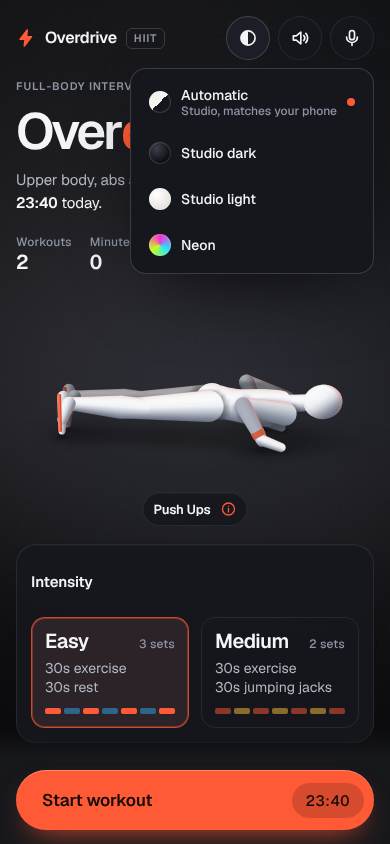
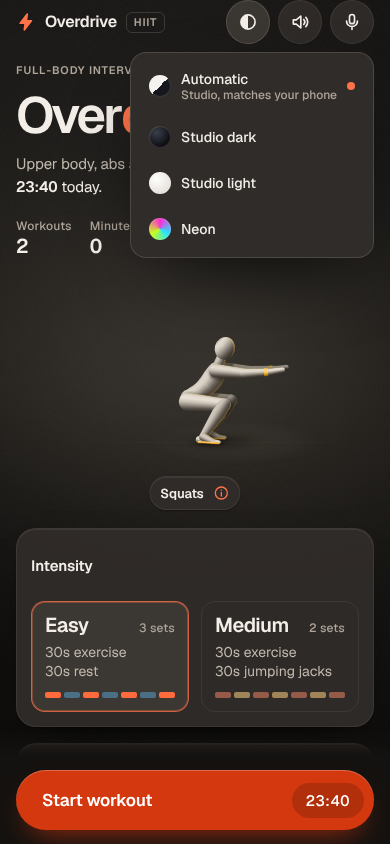
Studio dark finalised: Charcoal+ approved by both reviewers
- Warmer danger red (#ff7878, 4.5:1 on warm surfaces)
- Browser bar colour matches the top of the page (#1a1918)
- Graphite+ alternative mute lifted to 4.6:1
- Rejected exploration directions (midnight, OLED) removed
- README describes the dark scheme

Claude-Session: https://claude.ai/code/session_01JvyDYp8xkXSW85qqdek9vH

diff --git a/css/studio.css b/css/studio.css
@@ -21,7 +21,7 @@
   --btn-bg: #d4380f; --btn-ink: #ffffff;
   --text: #f4f5f7;
   --dim: #b8bac0;
-  --mute: #a0a2a8;
+  --mute: #a3a5ab;
   --accent: #ff5a36;
   --accent-2: #ff2d55;
   --accent-ink: #160b06;
@@ -619,39 +619,16 @@
 }
 
 /* =====================================================================
-   DARK DIRECTIONS (exploration; pick with ?dark=midnight|oled|charcoal)
+   DARK SCHEME: Charcoal+ (default) — warm charcoal stage, satin stone figure.
+   The base :root tokens above are the neutral Graphite+ alternative (?dark=graphite).
    ===================================================================== */
-:root[data-look="studio"][data-scheme="dark"][data-dark="midnight"] {
-  --dock: #0d1424;
-  --ink: #060a13; --ink-2: #0c1324;
-  --surface: rgba(18, 26, 44, .9); --surface-2: rgba(27, 37, 61, .94); --surface-solid: #121b2e; --tile: #17213a;
-  --line: rgba(150, 175, 235, .12); --line-hi: rgba(150, 175, 235, .24);
-  --text: #edf1f9; --dim: #aab4c9; --mute: #8a95ad;
-  --accent: #ff6b4a; --accent-ink: #0a0f1c; --btn-bg: #eef2fa; --btn-ink: #0a0f1c;
-  --shadow-1: 0 1px 0 rgba(200, 215, 255, .06) inset, 0 24px 48px -28px rgba(0, 0, 0, .85);
-  --work-a: #ff6a4d; --work-b: #ff3d5a; --rest-a: #4cc3ff; --rest-b: #5b8cff; --jacks-a: #ffc94a; --jacks-b: #ffa630;
-  --prep-a: #b9c3d6; --prep-b: #7d88a3; --break-a: #3ee0a8; --break-b: #2fc4c4; --gold-a: #ff6a4d; --gold-b: #ffb547;
-  --setup-a: #ff6a4d; --setup-b: #5b8cff;
-}
-:root[data-look="studio"][data-scheme="dark"][data-dark="oled"] {
-  --dock: #0a0a0a;
-  --ink: #000000; --ink-2: #070707;
-  --surface: rgba(28, 28, 30, .94); --surface-2: rgba(44, 44, 46, .96); --surface-solid: #1c1c1e; --tile: #232325;
-  --line: rgba(255, 255, 255, .08); --line-hi: rgba(255, 255, 255, .17);
-  --text: #f5f5f7; --dim: #c7c7cc; --mute: #8e8e93;
-  --accent: #ff5a36; --accent-ink: #000000; --btn-bg: #ffffff; --btn-ink: #000000;
-  --shadow-1: none;
-  --work-a: #ff453a; --work-b: #ff2d55; --rest-a: #0a84ff; --rest-b: #5e5ce6; --jacks-a: #ffd60a; --jacks-b: #ff9f0a;
-  --prep-a: #98989d; --prep-b: #636366; --break-a: #30d158; --break-b: #64d2ff; --gold-a: #ff453a; --gold-b: #ff9f0a;
-  --setup-a: #ff453a; --setup-b: #0a84ff;
-}
 :root[data-look="studio"][data-scheme="dark"][data-dark="charcoal"] {
   --dock: #141210;
   --ink: #100f0e; --ink-2: #1b1917;
   --surface: rgba(49, 45, 42, .92); --surface-2: rgba(60, 56, 52, .95); --surface-solid: #302c29; --tile: #36322e;
   --line: rgba(255, 238, 218, .075); --line-hi: rgba(255, 238, 218, .15);
   --text: #f3eee7; --dim: #c2b9ad; --mute: #aea498;
-  --accent: #ff7349; --accent-ink: #170d07; --btn-bg: #d4380f; --btn-ink: #ffffff;
+  --accent: #ff7349; --accent-ink: #170d07; --btn-bg: #d4380f; --btn-ink: #ffffff; --danger: #ff7878;
   --shadow-1: 0 1px 0 rgba(255, 244, 230, .07) inset, 0 1px 2px rgba(0, 0, 0, .3), 0 22px 44px -26px rgba(0, 0, 0, .85);
   --work-a: #ff6b3d; --work-b: #f04a2a; --rest-a: #5fb3e8; --rest-b: #6b8fd6; --jacks-a: #f2b544; --jacks-b: #e8873a;
   --prep-a: #c9bfb2; --prep-b: #8f867b; --break-a: #5fcf9f; --break-b: #3fb3a0; --gold-a: #ff6b3d; --gold-b: #f2b544;

diff --git a/js/app.js b/js/app.js
@@ -74,21 +74,11 @@
   function resolveLook(pref) { return pref === 'auto' ? 'studio-' + systemScheme() : pref; }
   var look = htmlEl.getAttribute('data-look') === 'studio' ? 'studio-' + (htmlEl.getAttribute('data-scheme') === 'light' ? 'light' : 'dark') : 'neon';
   function isStudio() { return LOOKS[look].style === 'studio'; }
-  // Dark-scheme directions (design exploration via ?dark=): stage, palette and mannequin material.
+  // Dark-scheme directions: Charcoal+ (default) and Graphite+ (?dark=graphite): palette + mannequin material.
   var DARK_VARIANTS = {
     graphite: { material: 'titanium', meta: '#151516' },
-    midnight: {
-      material: 'titanium', meta: '#060a13',
-      phase: { setup: ['#ff6a4d', '#5b8cff'], prep: ['#b9c3d6', '#7d88a3'], work: ['#ff6a4d', '#ff3d5a'], rest: ['#4cc3ff', '#5b8cff'],
-        jacks: ['#ffc94a', '#ffa630'], setrest: ['#3ee0a8', '#2fc4c4'], done: ['#ff6a4d', '#ffb547'] }
-    },
-    oled: {
-      material: 'ink', meta: '#000000',
-      phase: { setup: ['#ff453a', '#0a84ff'], prep: ['#98989d', '#636366'], work: ['#ff453a', '#ff2d55'], rest: ['#0a84ff', '#5e5ce6'],
-        jacks: ['#ffd60a', '#ff9f0a'], setrest: ['#30d158', '#64d2ff'], done: ['#ff453a', '#ff9f0a'] }
-    },
     charcoal: {
-      material: 'stone', meta: '#100f0e',
+      material: 'stone', meta: '#1a1918',
       phase: { setup: ['#d8c8b8', '#c9b8a6'], prep: ['#c9bfb2', '#8f867b'], work: ['#ff6b3d', '#f04a2a'], rest: ['#5fb3e8', '#6b8fd6'],
         jacks: ['#f2b544', '#e8873a'], setrest: ['#5fcf9f', '#3fb3a0'], done: ['#ff6b3d', '#f2b544'] }
     }

diff --git a/index.html b/index.html
@@ -27,17 +27,17 @@
       : (window.matchMedia && window.matchMedia('(prefers-color-scheme: dark)').matches ? 'dark' : 'light');
     var look = pref === 'auto' ? 'studio-' + sys : pref;
     d.setAttribute('data-look-pref', pref);
-    // Dark-scheme direction (design exploration): ?dark=graphite|midnight|oled|charcoal
+    // Dark scheme: Charcoal+ by default; ?dark=graphite shows the neutral alternative
     var dv = 'charcoal'; // the dark scheme's default direction
     try {
       var qd = new URLSearchParams(location.search).get('dark');
-      if (/^(graphite|midnight|oled|charcoal)$/.test(qd)) dv = qd;
+      if (/^(graphite|charcoal)$/.test(qd)) dv = qd;
     } catch (e) { /* keep the default */ }
     d.setAttribute('data-dark', dv);
     d.setAttribute('data-look', look === 'neon' ? 'neon' : 'studio');
     d.setAttribute('data-scheme', look === 'studio-light' ? 'light' : 'dark');
     var meta = document.querySelector('meta[name="theme-color"]');
-    var darkMeta = { graphite: '#151516', midnight: '#060a13', oled: '#000000', charcoal: '#100f0e' }[dv];
+    var darkMeta = { graphite: '#151516', charcoal: '#1a1918' }[dv];
     if (meta) meta.setAttribute('content', { neon: '#07020f', 'studio-dark': darkMeta, 'studio-light': '#f4f3ef' }[look]);
   })();
 </script>

diff --git a/js/bg.js b/js/bg.js
@@ -225,8 +225,6 @@
   // phase-wash strength and vignette depth.
   var DARK_STAGES = {
     graphite: { d0: [.062, .061, .062], d1: [.100, .098, .099], pool: [.07, .069, .069], wash: .9, vig: .3, tint: 0 },
-    midnight: { d0: [.012, .018, .036], d1: [.045, .064, .112], pool: [.055, .075, .13], wash: .9, vig: .55 },
-    oled: { d0: [0, 0, 0], d1: [.022, .022, .026], pool: [.05, .05, .056], wash: .75, vig: .7 },
     charcoal: { d0: [.040, .037, .034], d1: [.094, .088, .082], pool: [.085, .079, .072], wash: 1.0, vig: .4, tint: .03 }
   };
   Backdrop.prototype.setDark = function (name) {

diff --git a/README.md b/README.md
@@ -14,8 +14,9 @@ The default is **Automatic**: the Studio look in light or dark to match the phon
 
 - **Neon:** a warp-tunnel backdrop, glowing light-trail athlete, sparks and glitch type.
 - **Studio dark / Studio light:** clean and quiet.
-  - **Backdrop:** a graphite or warm-paper studio with a soft spotlight.
-  - **Athlete:** a matte 3D mannequin with contact shadows.
+  - **Backdrop:** warm paper (light) or warm charcoal (dark) with a soft spotlight that picks up the phase colour.
+  - **Athlete:** a satin 3D mannequin with contact shadows: graphite on light, warm stone on dark.
+  - **Dark scheme:** cards and panels sit lighter than the stage, the same structure as light. `?dark=graphite` shows a neutral alternative with a titanium mannequin.
   - **Type:** Geist, with one coral accent.
   - **Timer:** an Apple-style ring with thin oversized digits.
   - **Phase colour:** appears only on the ring, the phase chip and the progress bar. During jumping jacks the ring turns into beads, so the phase reads without colour.
